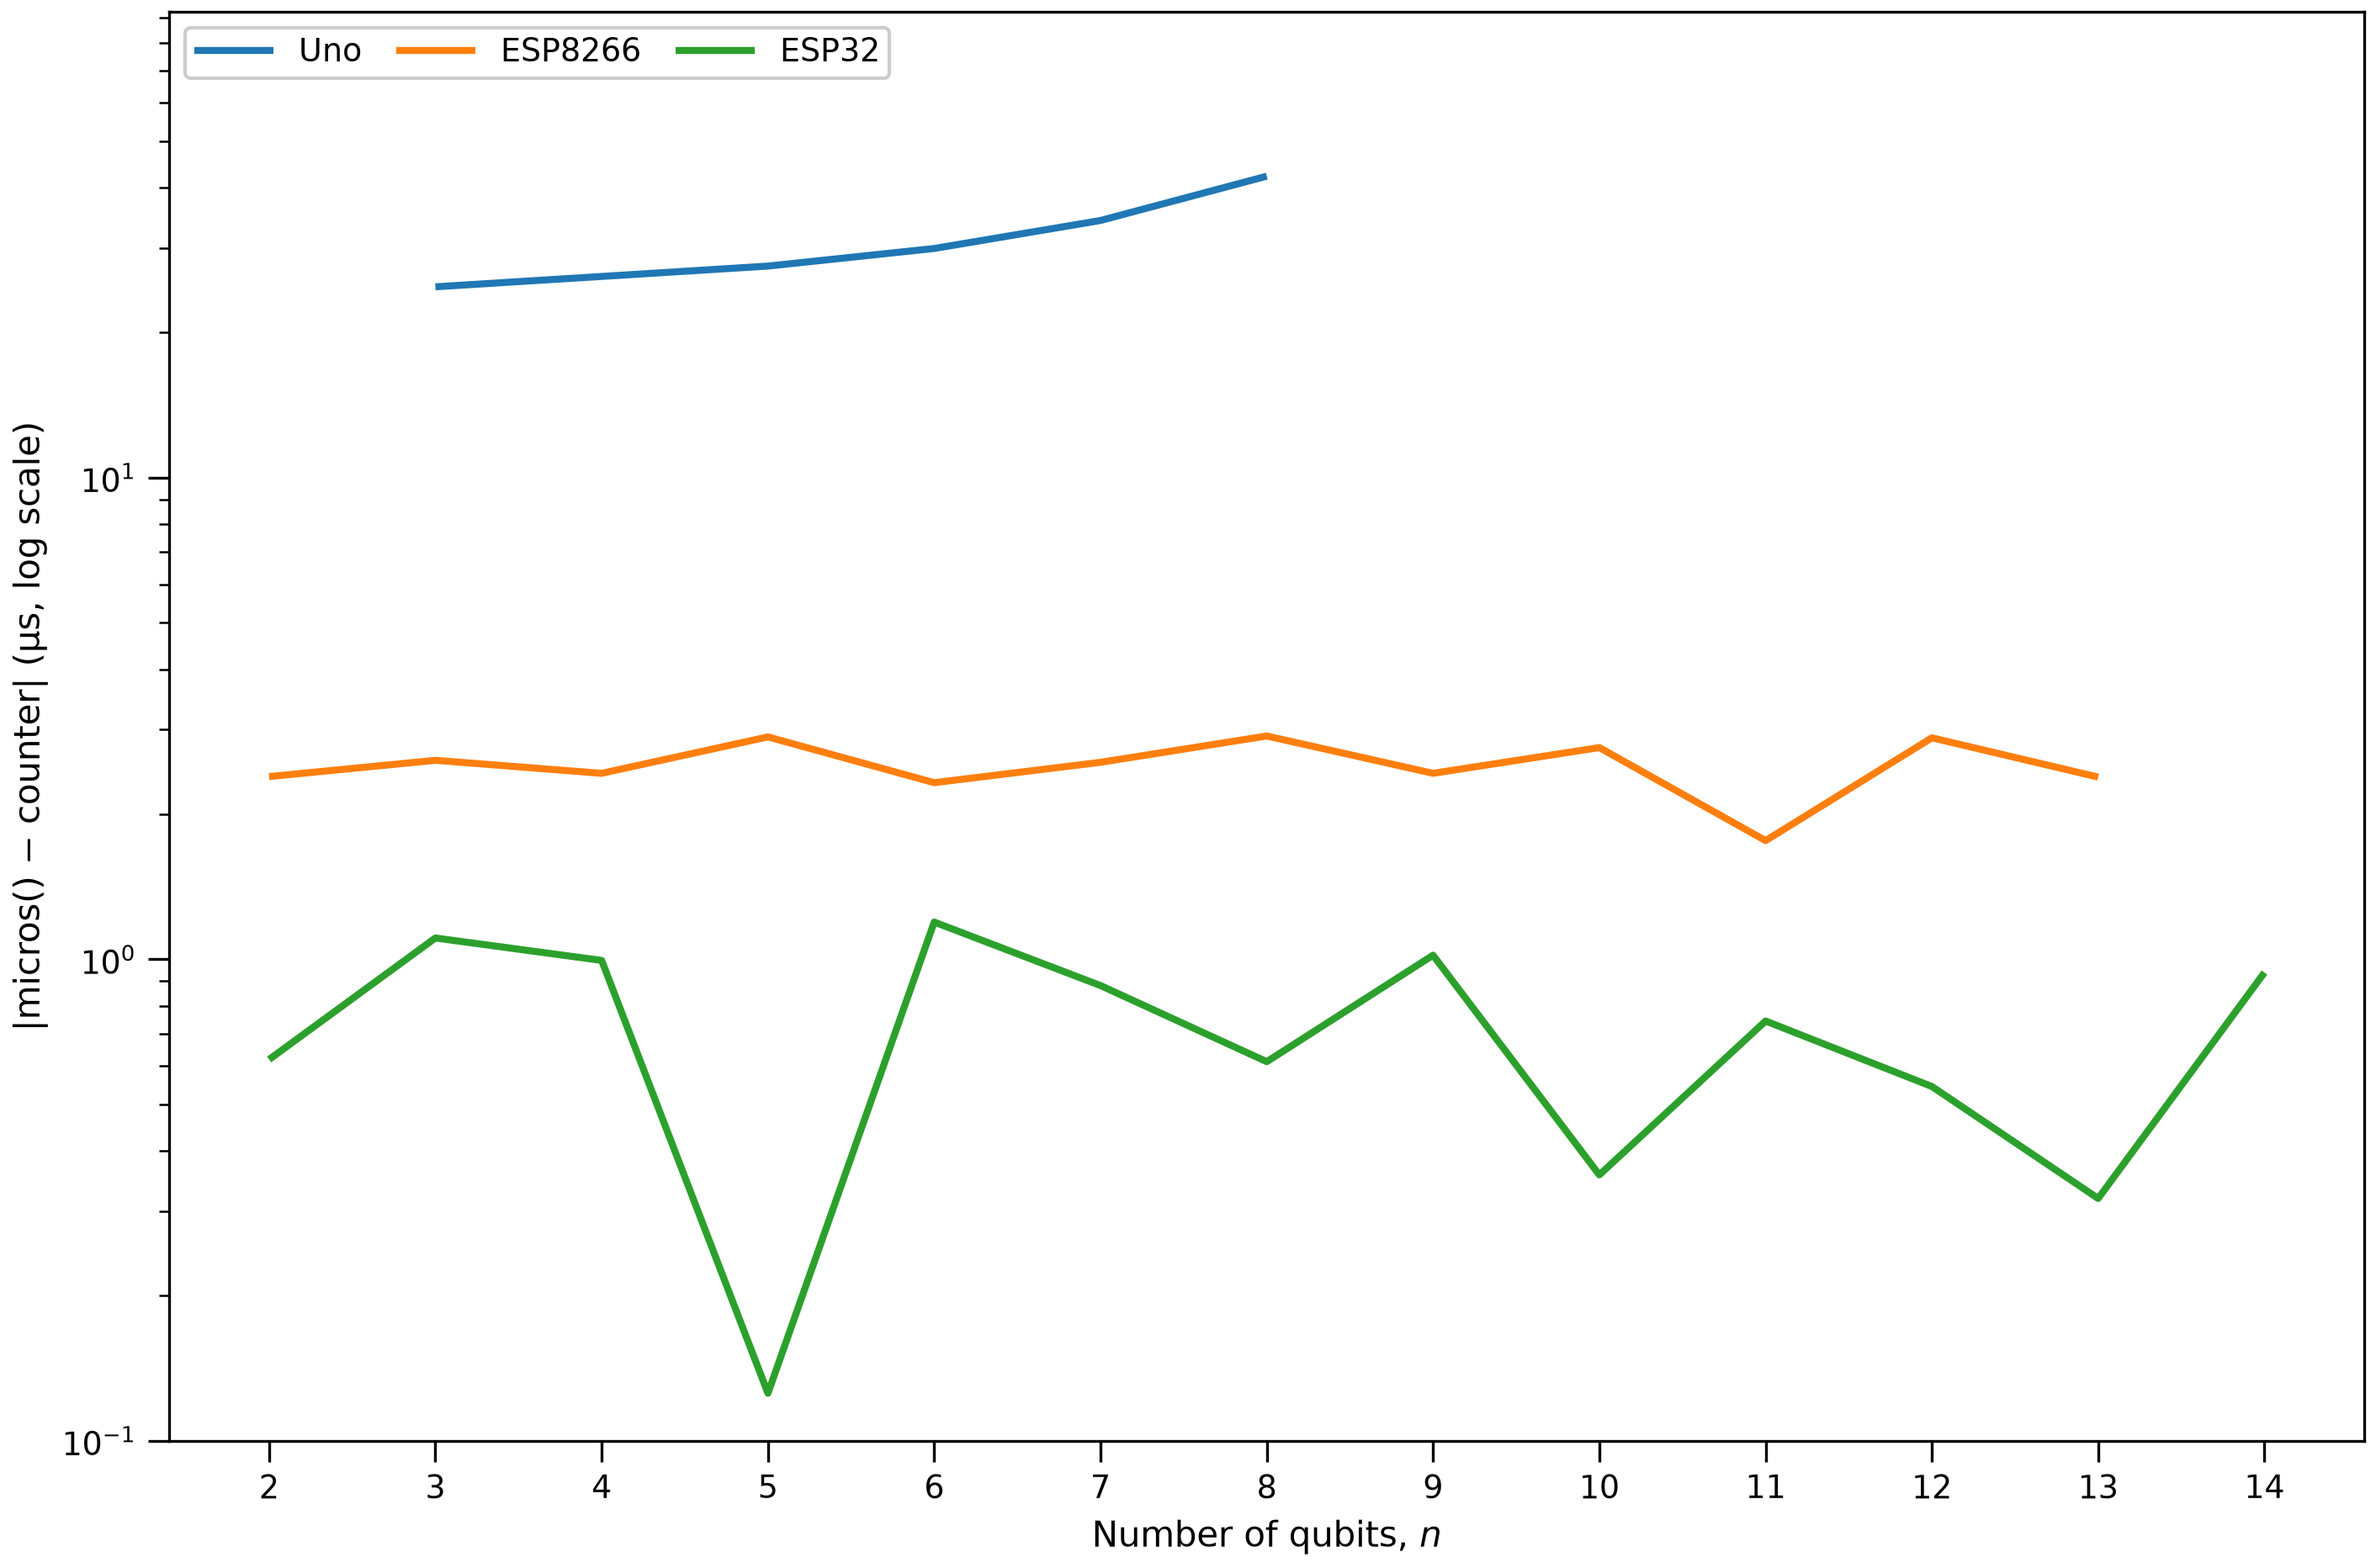
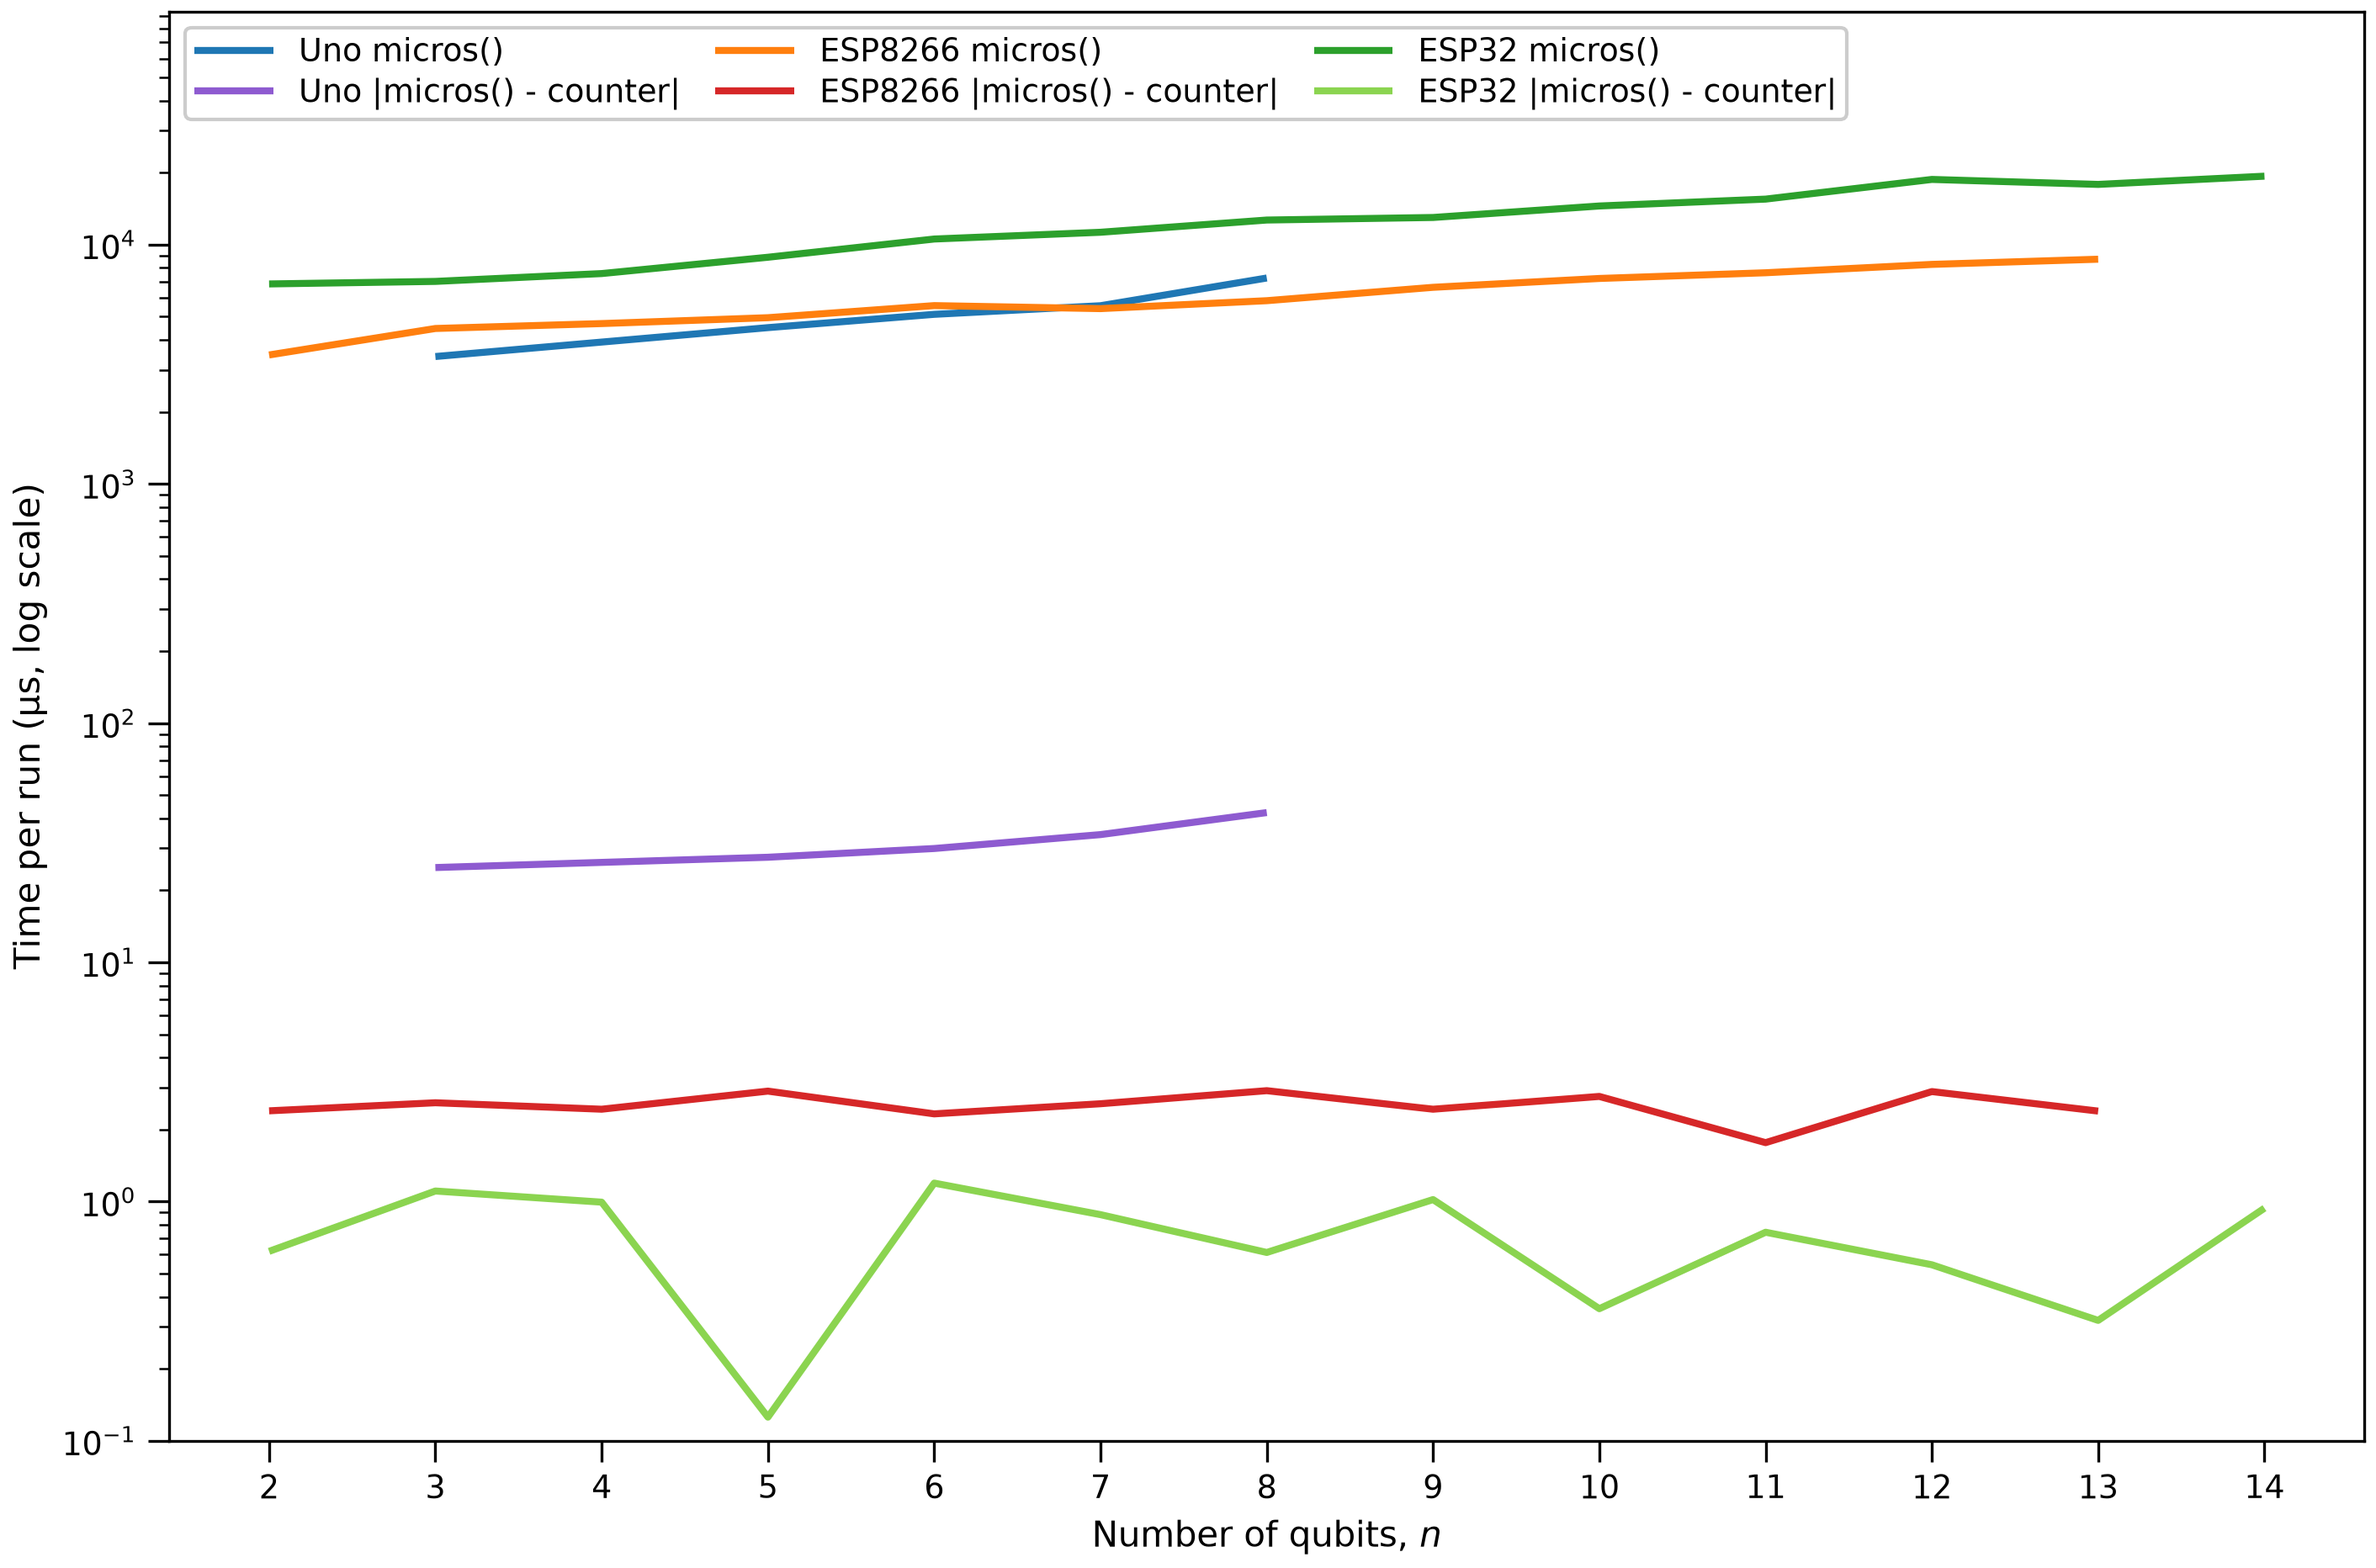
figures: timer_vs_counter charts also show the board's micros() time per run next to the absolute difference
Claude-Session: https://claude.ai/code/session_01AE6WdfFceGc968bUQSKnsU

diff --git a/analysis/timer_vs_counter_house_plots.py b/analysis/timer_vs_counter_house_plots.py
@@ -1,6 +1,6 @@
 #!/usr/bin/env python3
 # timer_vs_counter_house_plots.py
-# |micros() minus counter| (µs, log scale, point medians; the sign is not shown) vs n, one chart per circuit with the three boards, in the house line-chart style of the graph-create skill
+# |micros() minus counter| and the board's micros() time itself (µs, log scale, point medians; the sign of the difference is not shown) vs n, one chart per circuit with the three boards, in the house line-chart style of the graph-create skill
 # (same layout as analysis/algorithm_house_plots.py: no title, legend = board names, linear y). Only points whose counter pair passed the validity rules
 # (usable) in the selected sessions are drawn (data/derived/counter_validity.csv, read-only); the line is drawn straight over unusable points.
 #   data/figures/phase2/timer_vs_counter/<circuit>.png   data/figures/phase3/timer_vs_counter/<circuit>.png
@@ -28,13 +28,15 @@ NAME = {"uno": "Uno", "esp8266": "ESP8266", "esp32": "ESP32"}
 for ph in (2, 3):
     for c in ("h_all", "bell_ghz", "qft", "grover"):
         g = cv[(cv.phase == ph) & (cv.circuit == c)]
-        rows = [{"n": int(r.n), "ratio": float(r.ratio), "board": NAME[r.board], "series": "ratio"} for r in g.sort_values(["board", "n"]).itertuples()]
+        SER = ["micros()", "|micros() - counter|"]
+        rows = []
+        for r in g.sort_values(["board", "n"]).itertuples():
+            rows.append({"n": int(r.n), "ratio": float(r.micros_median_us), "board": NAME[r.board], "series": SER[0]})
+            rows.append({"n": int(r.n), "ratio": float(r.ratio), "board": NAME[r.board], "series": SER[1]})
         df = pd.DataFrame(rows)
         fig, ax = plot_grouped_lines(df, "n", "ratio", "board", "series", title="", xlabel="Number of qubits, $n$",
-                                     ylabel=r"|micros() $-$ counter| (µs, log scale)",
-                                     group_order=list(NAME.values()), series_order=["ratio"])
-        for t in ax.get_legend().get_texts():
-            t.set_text(t.get_text().replace(" ratio", ""))
+                                     ylabel=r"Time per run (µs, log scale)",
+                                     group_order=list(NAME.values()), series_order=SER)
         lo, hi = df.ratio.min(), df.ratio.max()
         lo_e = int(np.floor(np.log10(lo)))
         ax.set_ylim(10.0 ** lo_e, 10.0 ** (np.log10(hi) + 0.13 * (np.log10(hi) - lo_e)))   # whole decade below, headroom for the legend
